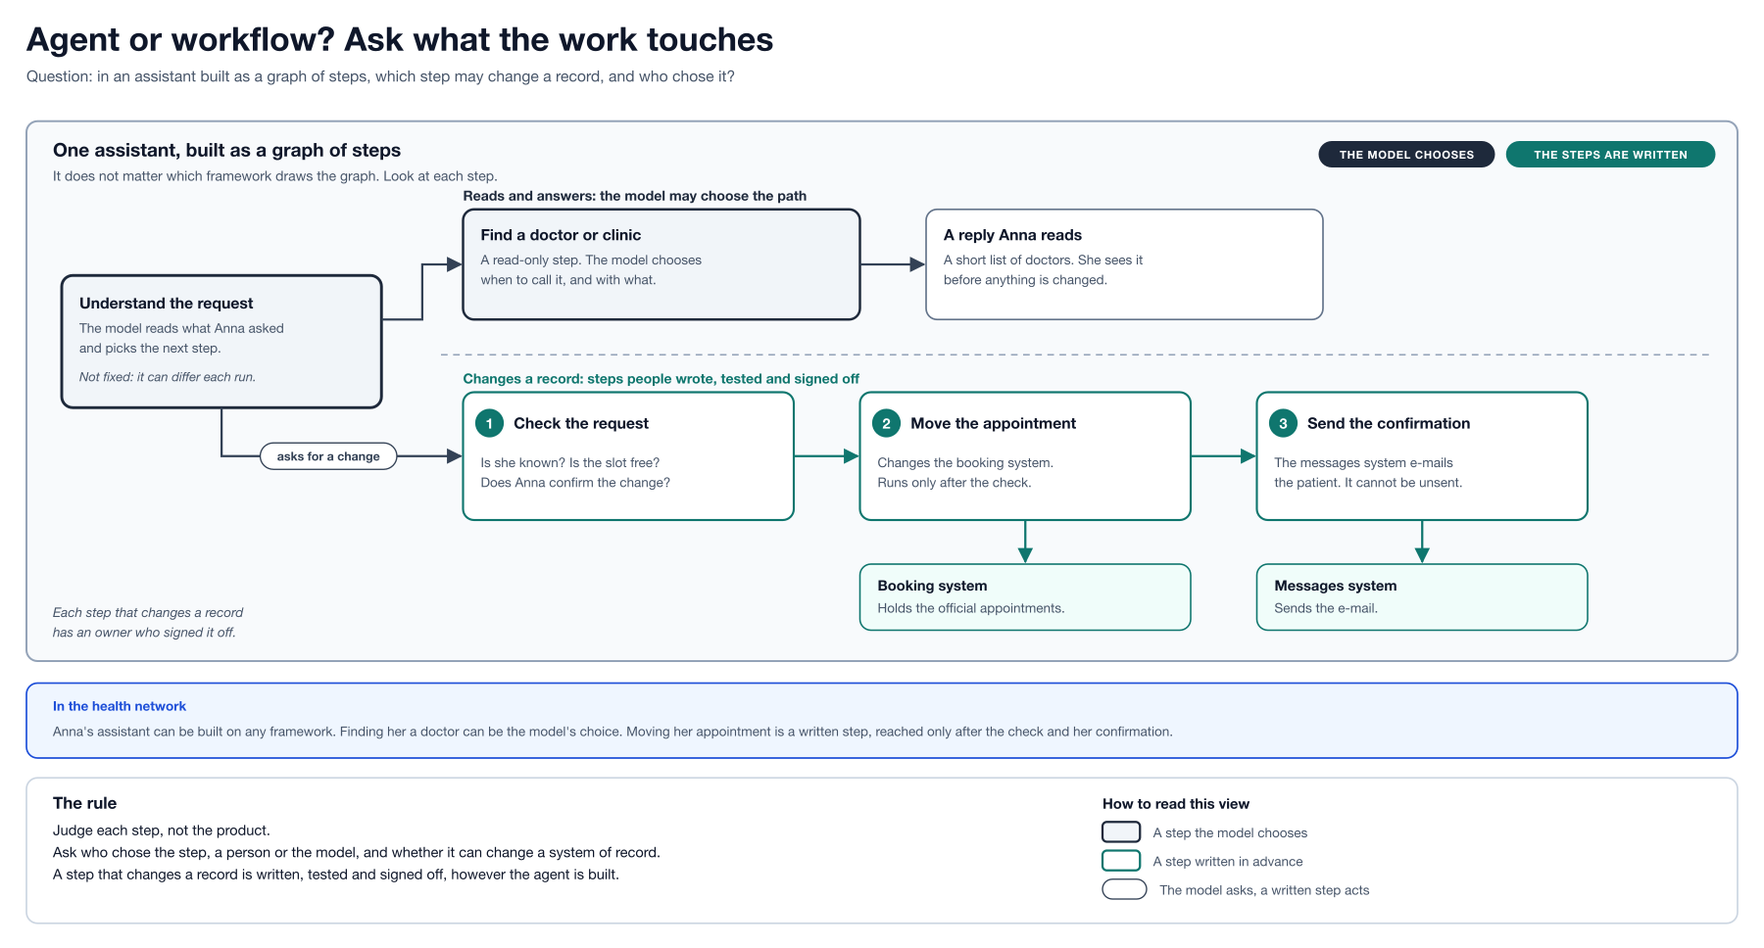
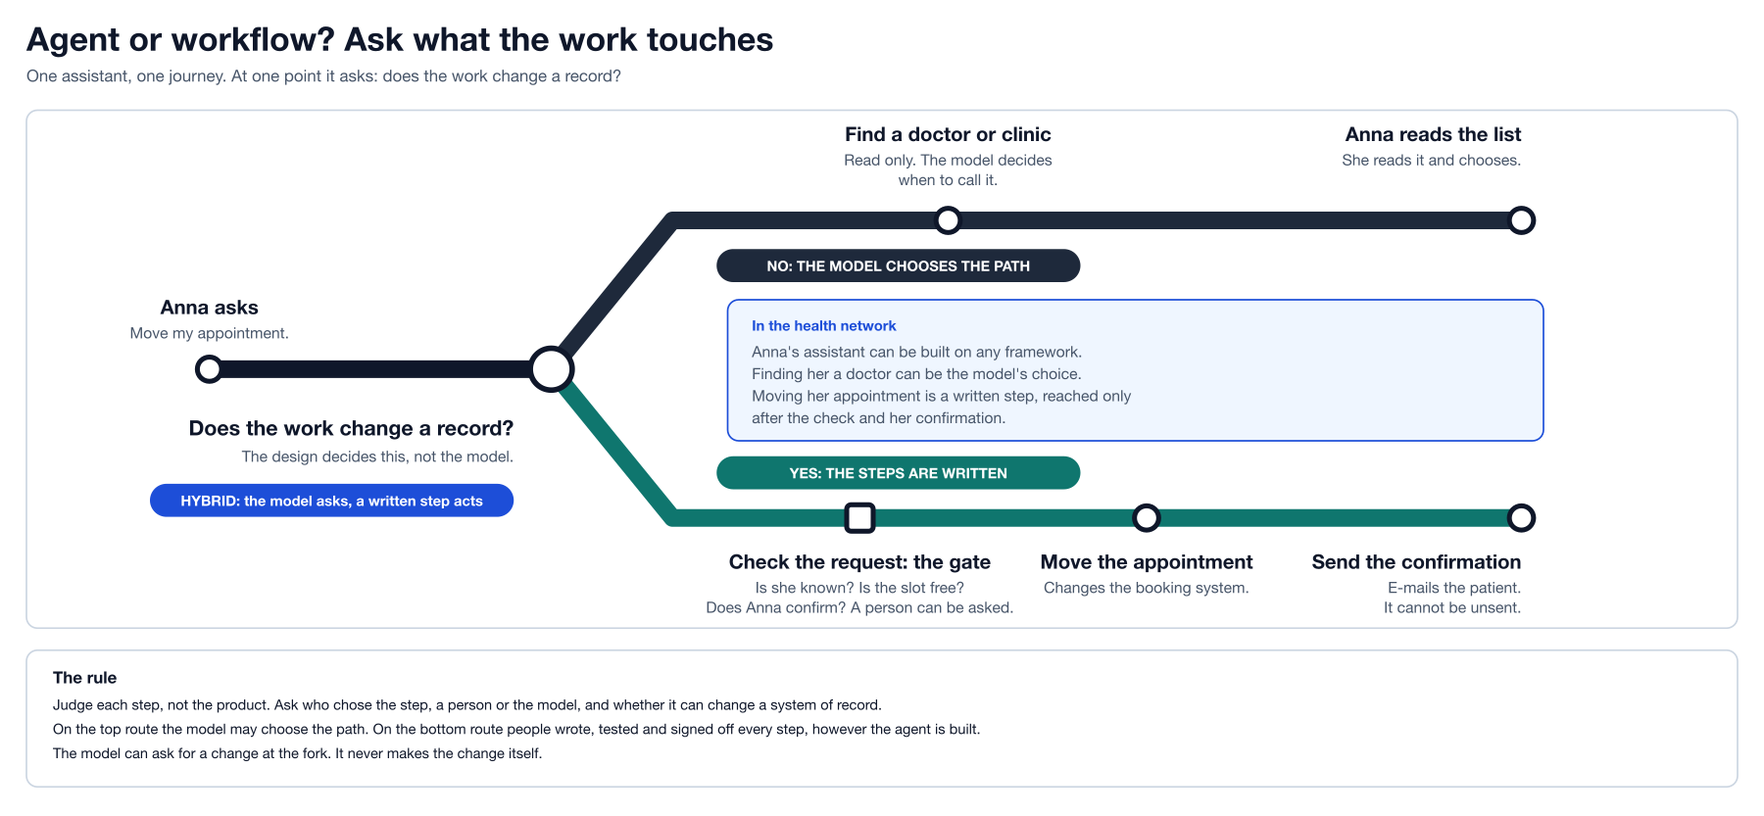
01 agent or workflow: updated text and pictures, add the trace view, stop tracking SVG sources

Changed region(s): [[0.0, 0.0312, 0.9956, 0.9364], [0.0311, 0.593, 0.3111, 0.6867], [0.6222, 0.8427, 0.7778, 0.9676]]

diff --git a/01-agent-or-workflow/README.md b/01-agent-or-workflow/README.md
@@ -4,7 +4,7 @@
 
 # Agent or workflow? Ask what the work touches
 
-*Vendors tell you to start small, and to keep fixed work out of agents. None I read draws the line at whether the work changes an official record, such as an appointment or a patient's record. Here is the question that does.*
+*Vendors tell you to start small, and to keep fixed work out of agents. None I read draws the line at whether the work changes an official record. Here is the question that does.*
 
 **In this article**
 
@@ -21,30 +21,26 @@
 - [What no source says](#what-no-source-says)
 - [Receipts](#receipts)
 
-A chain of clinics, which I call the health network, has an AI pilot that works. What stands between it and production? This is the first of the decisions that answer that.
+A chain of clinics, which I call the health network, has an AI pilot that works. What stands between it and production?
 
 The assistant does many jobs. Each role has an assistant of its own, over several systems, and all of it is personal data:
 
 - **Anna** finds a doctor by symptom, checks what her health plan covers, reads her own record and moves her appointment.
 - **Dr Rao** uses it for her schedule and her patients' records.
-- **Sam** registers patients and cancels appointments at the front desk, updates allergy and medication lists and has confirmations e-mailed.
+- **Sam** registers patients, cancels appointments, updates allergy and medication lists and sends confirmations.
 
-The pilot's sponsor said, "One agent for all of it."
-
-That sentence hides the first decision of an agentic programme. My answer is different for each kind of job:
+The pilot's sponsor said, "One agent for all of it." That hides the first decision of an agentic programme. My answer differs by kind of job:
 
 - **Talking, finding and reading** is model-led work. Finding Anna a doctor may need only one call to a model, and it becomes an agent only if the model must choose its own steps.
-- **Changing a record** belongs in fixed steps that people wrote down. Rescheduling an appointment, updating a medication list, registering a patient and sending a confirmation all change official records or send something out. An agent may ask for the change but never makes it.
+- **Changing a record** belongs in fixed steps that people wrote down. Rescheduling, updating a medication list, registering a patient and sending a confirmation all change official records or send something out. An agent may ask for the change but never makes it.
 
-If you fund this rather than build it, go to "Why the business should care".
+If you fund this, go to "Why the business should care".
 
 ## First, three words
 
 An **agent** is software where an AI model decides the next step. A **workflow** is software that follows steps people wrote down in advance. A **system of record** is the system that holds the official version of a fact, such as the booking system for appointments.
 
-If you run integration, you already own workflows: every flow on your platform is one, and a flow can still ask a model for help inside a step.
-
-What is new is the agent: nobody wrote its path down, and the model chooses what to call next.
+If you run integration, you already own workflows, and a flow can still ask a model for help inside a step. What is new is the agent: nobody wrote its path down, and the model chooses what to call next.
 
 ## What the vendors say, and what they leave out
 
@@ -54,32 +50,35 @@ On where to start, the guidance splits:
 - **Anthropic** advises finding the simplest solution possible and adding complexity only when needed.
 - **Salesforce** recommends starting with a single agent and adding more as the organisation grows.
 
-They agree that you grow slowly. They differ on whether the first step can be no agent at all, which my architecture model records as an open conflict. Microsoft and Anthropic also say when to build none:
+They agree that you grow slowly. They differ on whether the first step can be no agent at all, an open conflict in my architecture model. Microsoft and Anthropic also say when to build none:
 
 - Microsoft says that if you can write a function to handle the task, do that instead of using an AI agent.
 - Anthropic says workflows offer predictability for well-defined tasks.
 
-None of the guidance I read draws the line at the question I think comes first: does this work change a system of record? That line is my position. The best reason I found is consistency.
+None of the guidance I read draws the line at the question I think comes first: does this work change a system of record? That line is my position, and the best reason I found is consistency.
 
-**Consistency.** The best-known test of agents on customer-service tasks, tau-bench, asks not only whether an agent succeeds once but whether it succeeds every time on the same task.
+**Consistency.** The best-known test of agents on customer-service tasks, tau-bench, asks whether an agent succeeds every time on the same task, not only once.
 
 - In the 2024 paper, the best model tested solved about 61 percent of the retail tasks on one try.
 - It solved about 25 percent or fewer when it had to get the same task right on eight runs in a row.
 
 ## Most agents already have a workflow inside
 
-Few agents are one or the other: a team on an agent framework can call its assistant a workflow, and an agent.
+Few agents are one or the other: a team can call the same assistant a workflow, and an agent.
 
-- **Anthropic** notes that some customers use "agent" for systems that follow predefined workflows. It calls all of them agentic systems and keeps the difference.
-- **LangGraph**, an agent framework, builds both from steps joined by paths. Its documentation says a workflow has predetermined paths and an agent defines its own, and a graph can pause at a step for a person's approval.
-- **Microsoft** describes workflows that connect agents and functions through explicit paths.
-- **Salesforce** built its own graph for Agentforce: steps and transitions, some passing only after a check succeeds, with the model reasoning inside a step.
+- **Anthropic** notes that some customers use "agent" for systems that follow predefined workflows, calls all of them agentic and keeps the difference.
+- **LangGraph** and **Microsoft** build both from steps joined by explicit paths, and a LangGraph graph can pause at a step for a person's approval.
+- **Salesforce** built a graph for Agentforce: steps, some passing only after a check succeeds, with the model reasoning inside a step.
 
-So judge each step, not the product. Ask of every step who chose it, a person who wrote the path or the model at run time, and whether it can change a system of record.
+What the surveys say about how agents are built:
+
+- **Most agents in use are bounded.** Gartner's survey of 360 IT application leaders found only 15% considering or running fully autonomous agents. A Berkeley-led preprint of 20 production case studies found 16 use structured workflows, and 68% of deployed agents run at most ten steps before a person steps in.
+- **Vendors measure parts of it.** In Zapier's survey of 513 US managers, 77% whose agents mostly sit in automated workflows say agents finish most tasks alone, against 8% of the rest. UiPath found 52% of 590 executives name hybrid workflows, static and dynamic steps together, as next year's AI focus: intent, not practice.
+- **What none of them asks.** No survey I found asks how many systems combine a written path with model decisions, and each means something different by "hybrid": agent plus workflow, build plus buy, copilot plus agent. So "most agents are hybrid" is my reading, not a measured fact.
+
+So judge each step, not the product: who chose it, a person who wrote the path or the model at run time, and can it change a system of record?
 
 A graph does not make a change safe by being a graph. If the model decides when the "move the appointment" step runs, the model decides.
-
-In the health network, Anna's assistant can be built as a graph. The model may choose to look for a doctor. It may not choose to move her appointment: that step runs only after a written check and her confirmation.
 
 No source I found says where such a step must sit. That is my position.
 
@@ -87,17 +86,17 @@ No source I found says where such a step must sit. That is my position.
 
 A doctor the assistant suggests to Anna can be the wrong match, and what makes that safe is that Anna reads the answer and chooses.
 
-Updating a medication list is different. It changes the system of record every clinician will trust, as rescheduling changes the booking system. You want the same steps in the same order every time, written down, tested and signed off by the people who own those systems.
+Updating a medication list is different: every clinician will trust it. You want the same steps every time, written down, tested and signed off by the people who own the system.
 
-The variation that makes an agent useful at matching symptoms to doctors is the thing you cannot afford on a medication list. An agent right on average is not right every time.
+The variation that makes an agent useful at matching symptoms to doctors is the thing you cannot afford there. An agent right on average is not right every time.
 
 ## A quick sort
 
 Three questions place any step, in this order: does it change a system of record or send something out, can its steps be written down in advance, and if it is wrong, who sees it and when?
 
-- **Reads only, and a person sees the result first.** The model may choose the path. In the health network: finding Anna a doctor by symptom. She reads the list and chooses.
-- **Reads only, but nobody sees the result first.** The path is fixed in advance. In the health network: a note Anna leaves on her appointment, read later by Dr Rao's assistant.
-- **Changes a record or sends something out, and the steps can be written down.** People write, test and sign them off. The model can only ask. In the health network: moving Anna's appointment, then e-mailing her the confirmation.
+- **Reads only, and a person sees the result first.** The model may choose the path: finding Anna a doctor by symptom. She reads the list and chooses.
+- **Reads only, but nobody sees the result first.** The path is fixed in advance: a note Anna leaves on her appointment, read later by Dr Rao's assistant.
+- **Changes a record or sends something out, and the steps can be written down.** People write, test and sign them off. The model can only ask: moving Anna's appointment, then e-mailing her the confirmation.
 
 If the work changes a record but its steps cannot be written down, I do not hand it to an agent: a person does it until the steps can be written.
 
@@ -108,60 +107,64 @@ In my AI Agentic Reference Architecture, the sort has two halves.
 - Allow an agent where the work is conversation or sorting, with a person overseeing it.
 - Use a workflow wherever a system of record changes.
 
-Within either half, use the lowest sufficient complexity: ask a model once before you build an agent, build one agent before several, and make several agents justify themselves with a budget for model cost.
+Within either half, use the lowest sufficient complexity: ask a model once before you build an agent, build one agent before several, and make several justify themselves with a budget for model cost.
 
 I side with Microsoft and Anthropic against starting from an agent.
 
 The assistant can listen to Anna, work out that she wants to move her appointment and ask for it. The workflow makes the change.
 
-That holds inside a framework too: a step that changes a record is a written step, however the agent is built. The next decision covers who decides what.
+That holds inside a framework too: a step that changes a record is a written step, however the agent is built.
 
 I rejected an agent first, everywhere: it demos well, but it varies most between runs and gives a model's judgment a path to your records.
 
-I would change my mind if an enterprise measured, on its own tasks and over repeated runs, that an agent completes a record change every time, and a person still approves each change.
+I would change my mind if an enterprise measured, on its own tasks over repeated runs, that an agent completes a record change every time, and a person still approves each change.
 
-![One assistant drawn as a graph of steps, with the model choosing reads and written steps changing records.](assets/picture.png)
+![Logical view, a metro map: one fork asks whether the work changes a record.](assets/picture.png)
 
-*From my AI Agentic Reference Architecture.*
+*Logical view: my own metro-map drawing of how one assistant works, from my AI Agentic Reference Architecture.*
 
 ## Behind this answer
 
-*Business owners: this box is for architects. Skip to "Why the business should care", further down.*
+*Business owners: this box is for architects. Skip to "Why the business should care".*
 
-How to read the view below:
+The logical view above is my own simplified drawing. The ArchiMate views below come from the formal model of the architecture. How to read the first: five bands from the top, each in its own colour.
 
-- **Shapes and colours:** pale blue boxes are building blocks. Lilac shapes are principles ("!"), requirements (slanted), goals (a target) and the open conflict (a magnifier).
-- **Arrows:** dotted with a hollow head means supports, dashed with a solid head means invokes, and a plain line means related to.
-- **The two building blocks:** the Hybrid workflow engine runs the written steps and can invoke an agent step. The Agent runtime and reasoning engine runs the agent. Its long requirement box lists the run limits on every agent: a token budget, an iteration limit, a timeout, a circuit breaker (an automatic stop when something keeps failing) and a daily cost cap.
-- **Direction:** the view shows a workflow invoking an agent step; the other direction in my picture is my position.
-- **Two terms:** CLASSic is a set of five measures for an agent: cost, latency, accuracy, security and stability. pass^k is the share of tasks an agent gets right on k runs in a row.
+- **Motivation and strategy (violet, orange):** the target, to move agents from pilot to production safely, measured by no agent reaching a system outside a governed path. One capability, agent and workflow orchestration, contributes to it.
+- **Business (yellow):** the two kinds of work.
+- **Application (cyan):** the hybrid. The agent runtime and reasoning engine chooses the steps for reading, using retrieval and context assembly (fetching the right facts for one request). To change a record it asks the hybrid workflow engine, which runs the written steps.
+- **One door, one gate:** each change passes the tool gateway, the door, and the action policy and approval gate, which checks it and can ask a person. Only the domain capability services, the business functions in front of each system, call the records.
+- **Technology (green):** an API and AI gateway platform runs the door.
 
-![The ArchiMate view "Agent or workflow"](assets/archimate.png)
+![ArchiMate view "What the work touches": the target, the agent asking for written steps, one door and one gate.](assets/archimate.png)
 
-*From the ArchiMate model of my AI Agentic Reference Architecture. View: "Agent or workflow".*
+*ArchiMate view, from the model of my AI Agentic Reference Architecture. View: "What the work touches".*
 
-- **TOGAF phase:** principles belong to the preliminary phase, where the rules for all later work are set. The building blocks belong to the application phase, where the software pieces are chosen.
-- **Tested or guidance:** "Lowest sufficient complexity" is realised (the model's word for supported) by two requirements, on repeated-run evaluation and on run budgets. "Agents for interaction, workflows for records" has nothing supporting it, so it is guidance.
-- **A recorded conflict:** the model keeps "agent first" against "lowest sufficient complexity" open.
+- **The principles behind it:** the second view shows the two principles behind the answer, with the goals they serve.
+
+![ArchiMate view "Agent or workflow": two principles, two goals, one open conflict.](assets/archimate-trace.png)
+
+*ArchiMate view, from the model of my AI Agentic Reference Architecture. View: "Agent or workflow".*
+
+- **Tested or guidance:** two requirements, repeated-run evaluation and run budgets, support "lowest sufficient complexity". "Agents for interaction, workflows for records" has no support in the model, so it is guidance. The model keeps "agent first" against "lowest sufficient complexity" as an open conflict.
 
 ## What this changes for you
 
-- **Integration architect.** Your flows stay as the way records change. The new work is letting an agent ask for them, and choosing which.
-- **Security architect.** A fixed path gives you a place to put controls. The agent still writes the request, so its guess can reach the workflow. The workflow limits where it can land; the next decision covers who checks it.
-- **Data architect.** An agent that reads data with an owner and access rules is a smaller risk than one that writes it. The data decisions later start from reading.
+- **Integration architect.** Your flows stay as the way records change. The new work is letting an agent ask for them.
+- **Security architect.** A fixed path gives you a place to put controls. The agent still writes the request, so its guess can reach the workflow, which limits where it can land.
+- **Data architect.** An agent that reads data with an owner and access rules is a smaller risk than one that writes.
 
 ## Why the business should care
 
-The pilot sounds like one purchase but is two kinds of work. Each has a bill for mistakes and a bill to run:
+The pilot sounds like one purchase but is two kinds of work, each with a bill for mistakes and a bill to run:
 
-- **Talking, reading and sorting.** A person who reads the result first catches a mistake, as long as they keep reading. It is cheap to run if one model call is enough, and dearer if it needs an agent.
-- **Changing records.** A mistake is an appointment cancelled for the wrong patient, a wrong allergy or a confirmation sent to the wrong person. It is cheap to run on fixed steps, once people have written, tested and signed them off.
+- **Talking, reading and sorting.** A person who reads the result first catches a mistake, as long as they keep reading. It is cheap to run if one model call is enough.
+- **Changing records.** A mistake is an appointment cancelled for the wrong patient, a wrong allergy or a confirmation sent to the wrong person. It is cheap to run on fixed steps, once people have signed them off.
 
-Each step an agent decides is a paid call to the model. In Anthropic's own data on its research system, agents used about four times as many tokens as a plain chat, and teams of agents about fifteen times (a token is the unit a model is billed by, roughly a short word).
+Each step an agent decides is a paid call to the model. In Anthropic's own data on its research system, agents used about four times the tokens of a plain chat, and teams of agents about fifteen times (a token is the unit a model is billed by). That is one vendor's figure about one system.
 
-That is one vendor's figure about one system. Fixed steps cost less to run and can be audited but cost more to build, which is my reasoning, not a measured figure.
+Fixed steps cost less to run and can be audited but cost more to build, which is my reasoning, not a measured figure.
 
-When a team says its assistant is "just a workflow", ask which steps change a record or send something out, and whether people wrote them down beforehand.
+When a team says its assistant is "just a workflow", ask which steps change a record or send something out, and whether people wrote them down first.
 
 One question for your chief operating officer: what would one wrong change to a patient's record cost us, and how many would we accept?
 
@@ -169,12 +172,12 @@ One question for your chief operating officer: what would one wrong change to a 
 
 1. Who has sorted every step of what we want the assistant to do by whether it changes a system of record, and where is that list kept?
 2. For each one that changes a record, who owns the written steps today, and can an agent ask for them without replacing them?
-3. For each agent we approve, what is the lowest rung that works, and who has measured it over repeated runs, not once?
+3. For each agent we approve, what is the lowest rung that works, and who has measured it over repeated runs?
 4. Who signs off when a job asks to go up a rung, and what budget for model cost does it carry?
 
 ## What no source says
 
-- No source I found tells you how to sort your own tasks into the two halves. The split by purpose is my architecture's own, a position and not an industry fact.
+- No source I found tells you how to sort your own tasks into the two halves. The split is my architecture's own position, not an industry fact.
 - The consistency figures come from 2024 models, one domain, and a paper whose appendices I did not read.
 - The cost figures are one vendor's data about one system.
 
@@ -194,9 +197,13 @@ One question for your chief operating officer: what would one wrong change to a 
 | Some customers use "agent" for systems that follow predefined workflows; all are called agentic systems, and the difference between a workflow and an agent is kept | Vendor guidance | Anthropic, "Building effective agents", same page as above | Published 19 Dec 2024 |
 | Workflows that connect agents and functions through explicit execution paths | Product documentation | Microsoft Learn, "Microsoft Agent Framework Overview", same page as above | Last updated 28 Oct 2026 |
 | Agentforce models a business process as a graph of steps and transitions; some transitions are guarded by checks that must pass; each step is a focused reasoning agent | Vendor guidance | Salesforce Engineering, "Building Enterprise AI Agents That Are Both Autonomous and Reliable", https://engineering.salesforce.com/?p=8509, and "Agentforce's Agent Graph: Toward Guided Determinism with Hybrid Reasoning", https://engineering.salesforce.com/?p=7847 (both read in full) | Posted 6 Jul and 20 Oct; the year is not shown on either page |
+| Only 15 percent of 360 IT application leaders surveyed (May and June 2025) are considering, piloting or deploying fully autonomous agents | Reported | Gartner, press release "Gartner Survey Finds Just 15% of IT Application Leaders Are Considering, Piloting, or Deploying Fully Autonomous AI Agents", https://www.gartner.com/en/newsroom/press-releases/2025-09-30-gartner-survey-finds-just-15-percent-of-it-application-leaders-are-considering-piloting-or-deploying-fully-autonomous-ai-agents (read from Gartner's mirror host because the newsroom address was refused; the report itself was not read) | 30 Sep 2025 |
+| 16 of 20 production case studies use structured workflows; 68 percent of deployed agents run at most ten steps before a person steps in | Research | Pan and others, "Measuring Agents in Production", arXiv 2512.04123 (preprint, not shown to be peer reviewed; abstract, sections 3 to 7 and appendix B read) | Preprint Dec 2025 |
+| Among 513 US managers, 77 percent say agents finish most tasks alone where more than half of agents sit in automated workflows, 8 percent where half or fewer do | Vendor data | Zapier, "88% of enterprises now use or test AI agents, but most still need a human in the loop", https://zapier.com/blog/ai-agents-survey/ (survey run by Centiment, 16 to 21 Sep 2026; Zapier sells workflow automation) | 9 Nov 2026 |
+| 52 percent of 590 executives name hybrid workflows, static and dynamic together, as their AI focus for the next twelve months | Vendor data | UiPath, press release on its AI adoption and orchestration survey, https://www.uipath.com/newsroom/uipath-ai-adoption-orchestration-survey-2026 (survey 25 May to 8 Jun 2026) | 9 Sep 2026 |
 | A step that changes a record is written by people however the agent is built; judge each step, not the product | My position | My AI Agentic Reference Architecture | Not applicable |
 | Agents for conversation and sorting, workflows wherever a record changes | My position | My AI Agentic Reference Architecture | Not applicable |
 
-Last verified: 2026-11-23.
+Last verified: 2026-11-26.
 
 **Next: who holds authority, the model or the services?**
